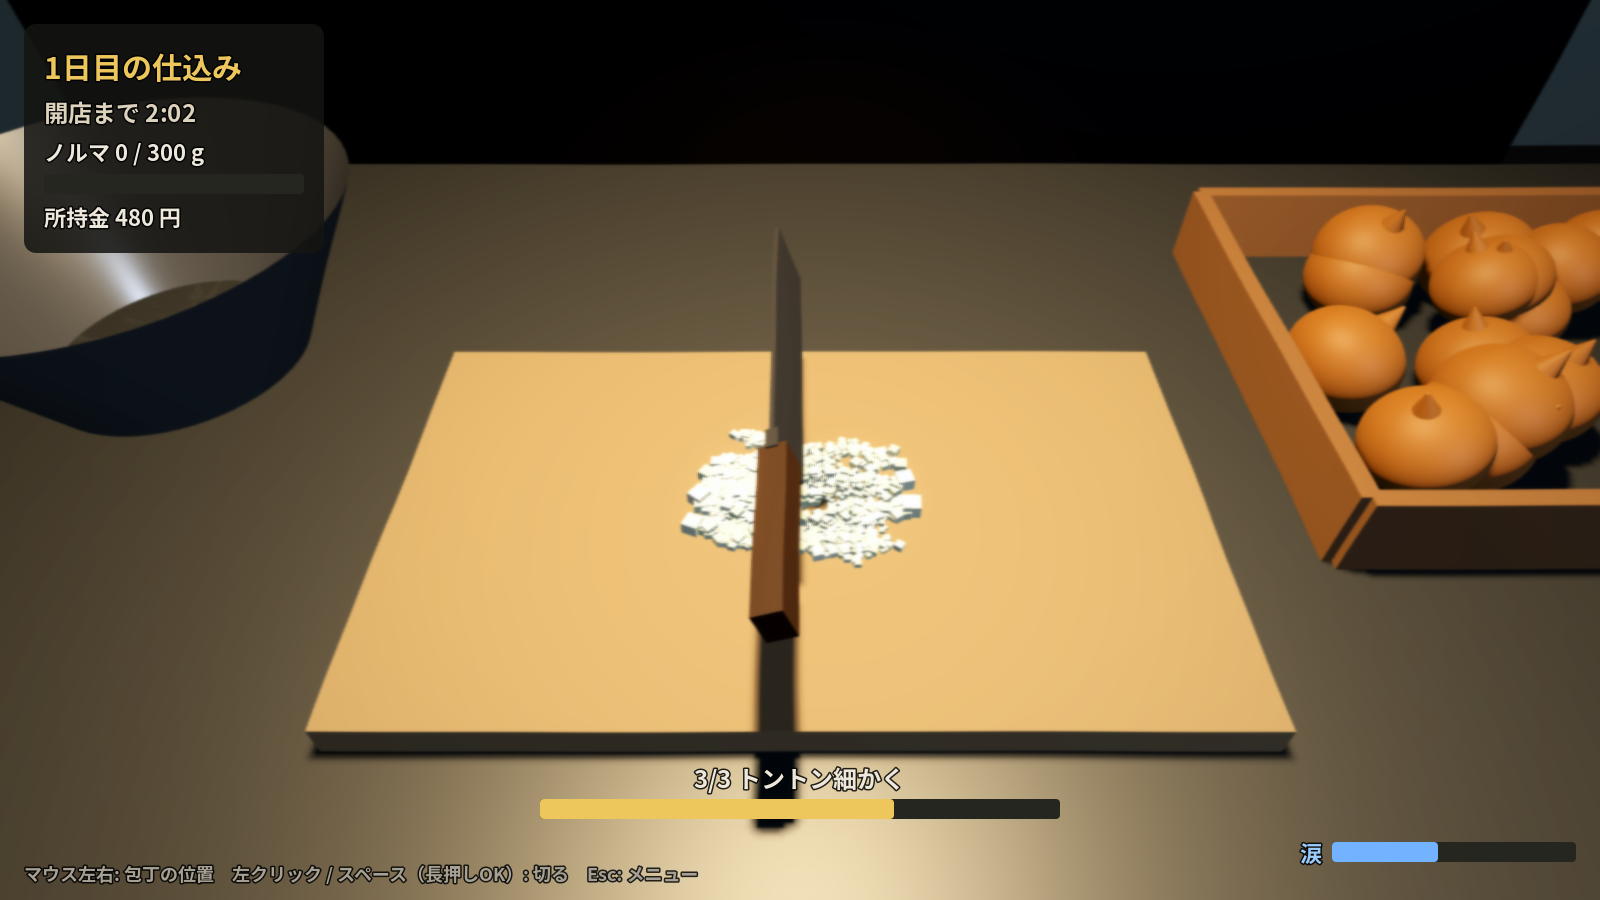
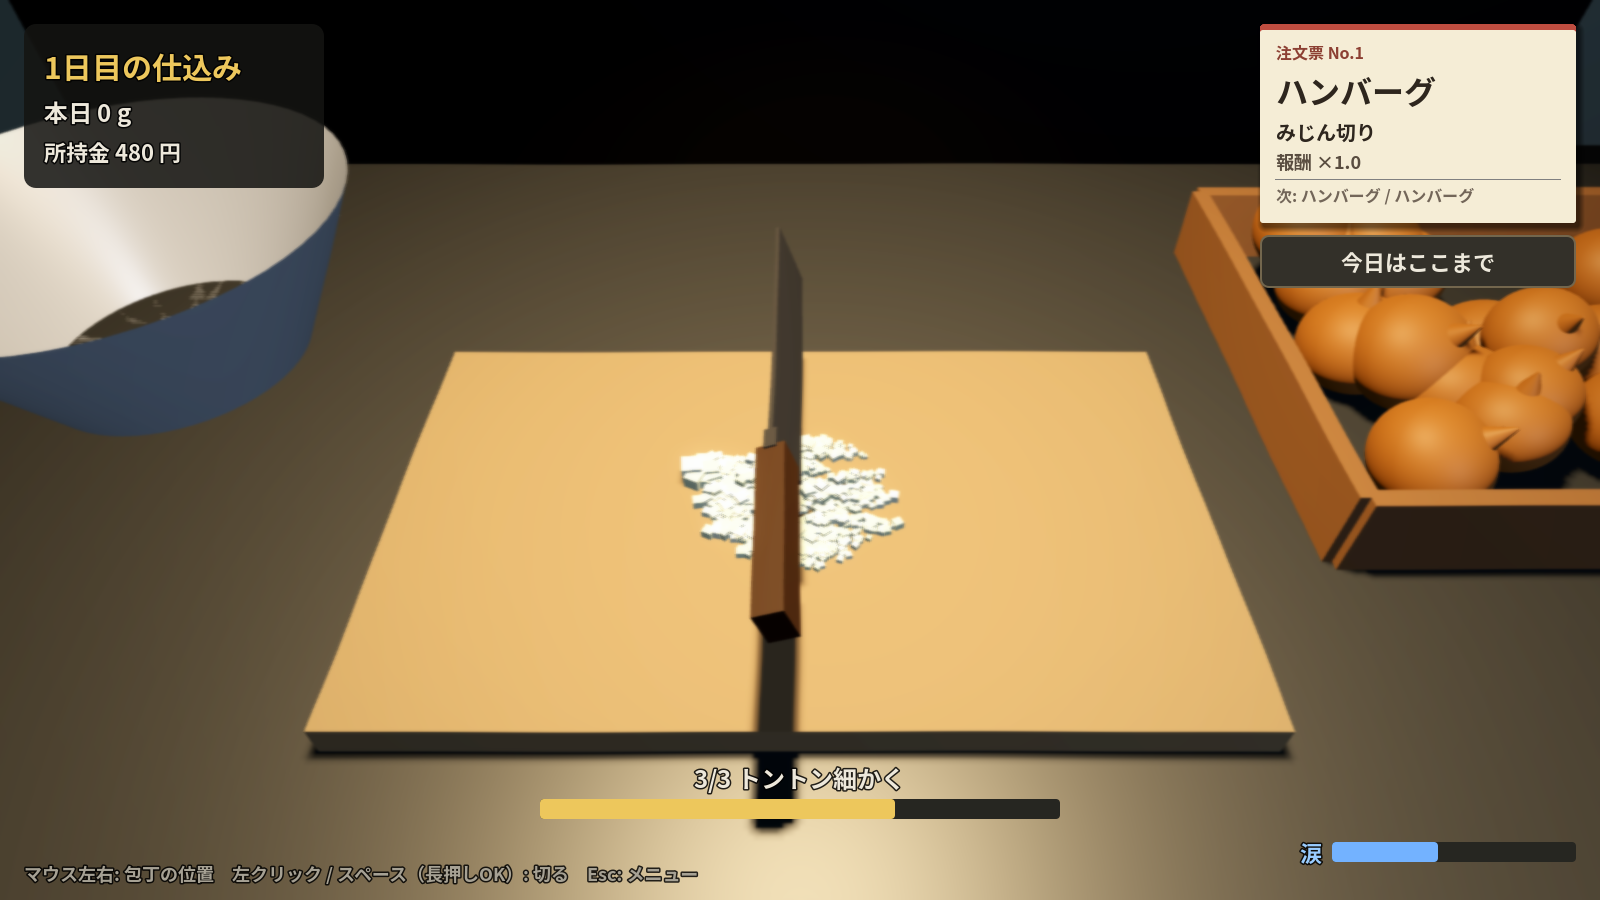
時間制限とノルマを撤廃し、自分のペースで遊べるスローライフ仕様に
- 150秒のカウントダウンと日次ノルマ・達成ボーナス・未達リトライを削除
- 右上の「今日はここまで」ボタンでいつでも終業でき、切った量ぶん翌日へ進む
- HUDから残り時間とノルマバーを外し、「本日 ○g」という控えめな表示に
- 終業画面は成功/失敗の演出をやめ、「本日の仕込み、お疲れさまでした」に一本化
- BGMの閉店間際テンポアップも撤去（急かす要素をなくす方針のため）
- README / ロードマップをスローライフ路線の説明に更新

Claude-Session: https://claude.ai/code/session_01Fz9qy8KHkDBY9XhjKQFu2R

diff --git a/docs/STEAM_ROADMAP.md b/docs/STEAM_ROADMAP.md
@@ -7,17 +7,19 @@
 
 **スローライフ・落ち着いて遊べる路線。** 急かす要素（注文の締め切り、遅れると減点、など）は
 今は入れない方針。追加する機能は「焦らせる」より「没頭できる・心地よい」を優先して選ぶ。
-（例：BGMのテンポアップは軽い緊張感どまりなので許容、注文ごとの締め切りタイマーは保留）
+1日の時間制限とノルマは撤廃し、自分のペースで好きなだけ切って好きなときに終われるようにした。
 
 ## フェーズ1：ゲームを面白くする（〜2か月）
 
 - [x] 3工程のみじん切り（縦に切り込み → 横に刻む → トントン細かく）
 - [x] 涙ゲージと画面のにじみ、満タンで数秒切れなくなる
-- [x] 1日のノルマ（グラム）と時間制限、報酬
+- [x] ~~1日のノルマ（グラム）と時間制限~~ → 撤廃。時間制限もノルマもなく、好きなだけ切って
+      「今日はここまで」でいつでも終業できる（切った個数ぶん日が進む）
+- [x] 報酬（切った量 × 注文ごとの倍率）
 - [x] アップグレード（包丁 / ゴーグル / フードプロセッサー / 値段交渉）
 - [x] セーブ、日本語・英語切り替え
 - [x] 効果音（ザクッ、トントン、ボウルに落ちる音、チーン、環境音など。プログラムで合成）
-- [x] BGM（ボサノバ風のループ。メニュー中はこもる、閉店間際はテンポアップ）
+- [x] BGM（ボサノバ風のループ。メニュー中はこもる）
 - [ ] 効果音を本物の録音に差し替えるか検討（包丁とまな板の音は録音すると一気に良くなる）
 - [ ] BGM を増やす（日によって曲が変わる、忙しい日は速い曲など）
 - [ ] 包丁のリズムに合わせてボーナス（テンポよく刻むと涙が減る、など）
